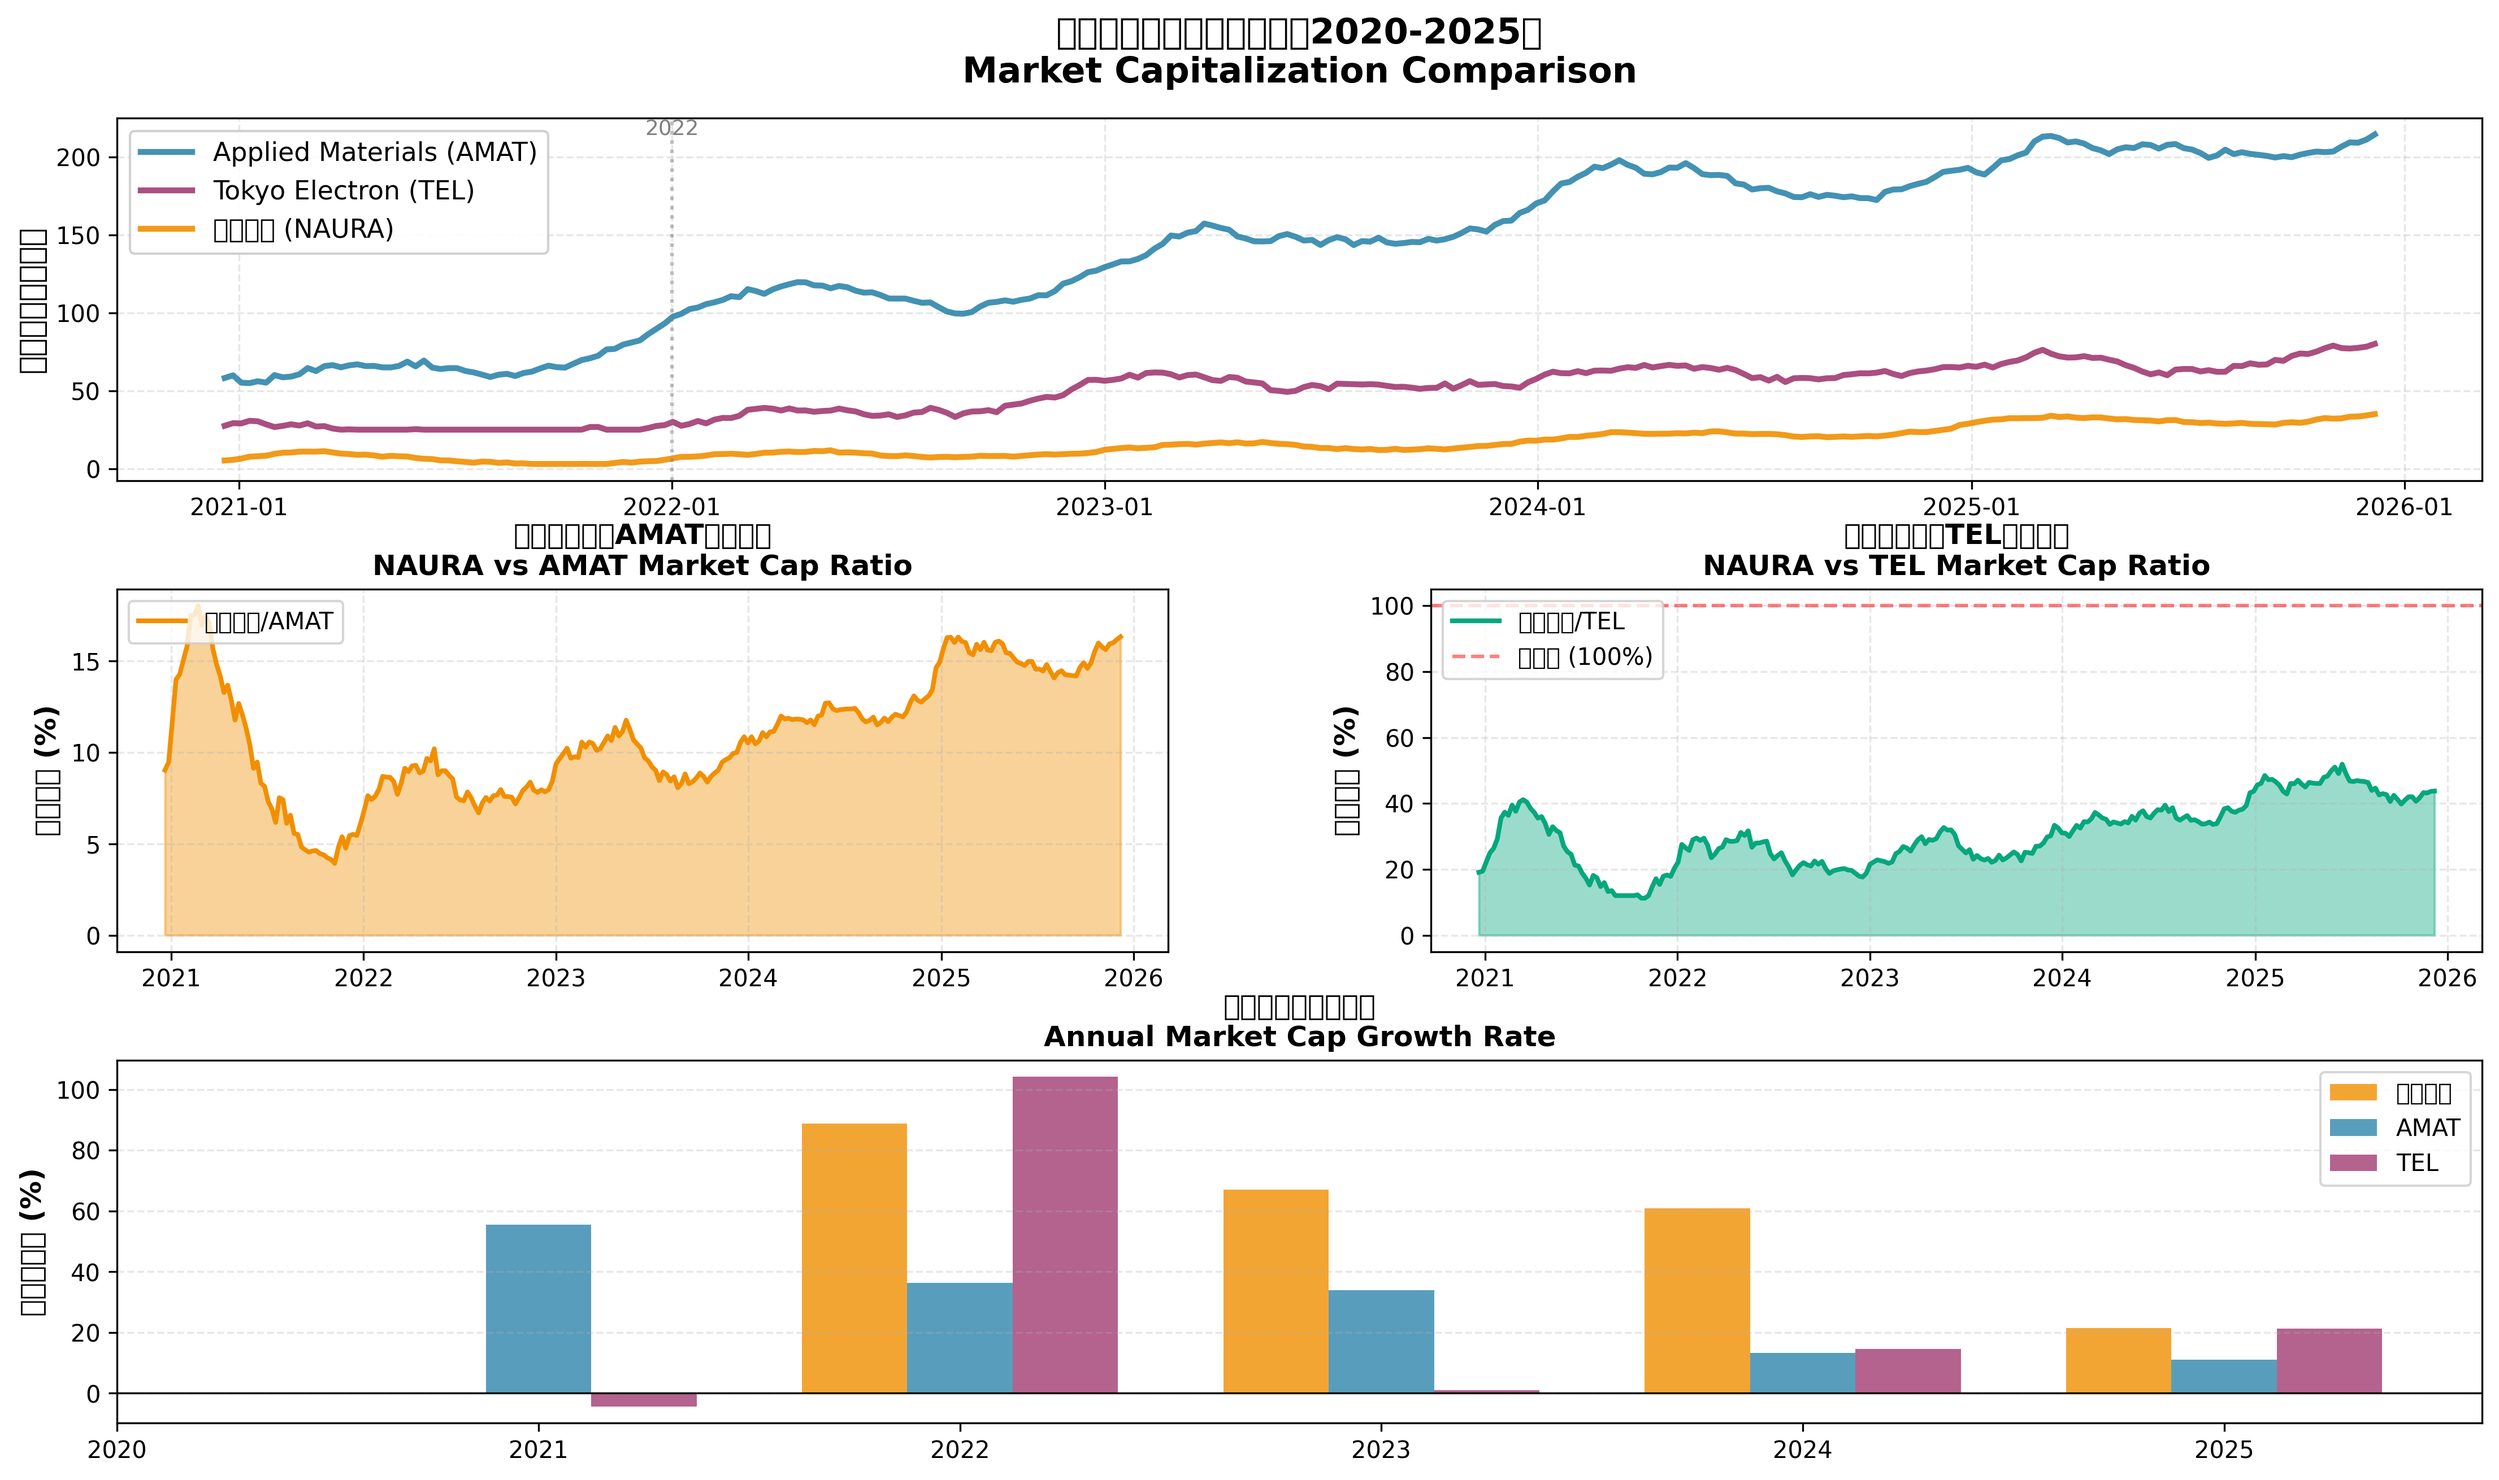
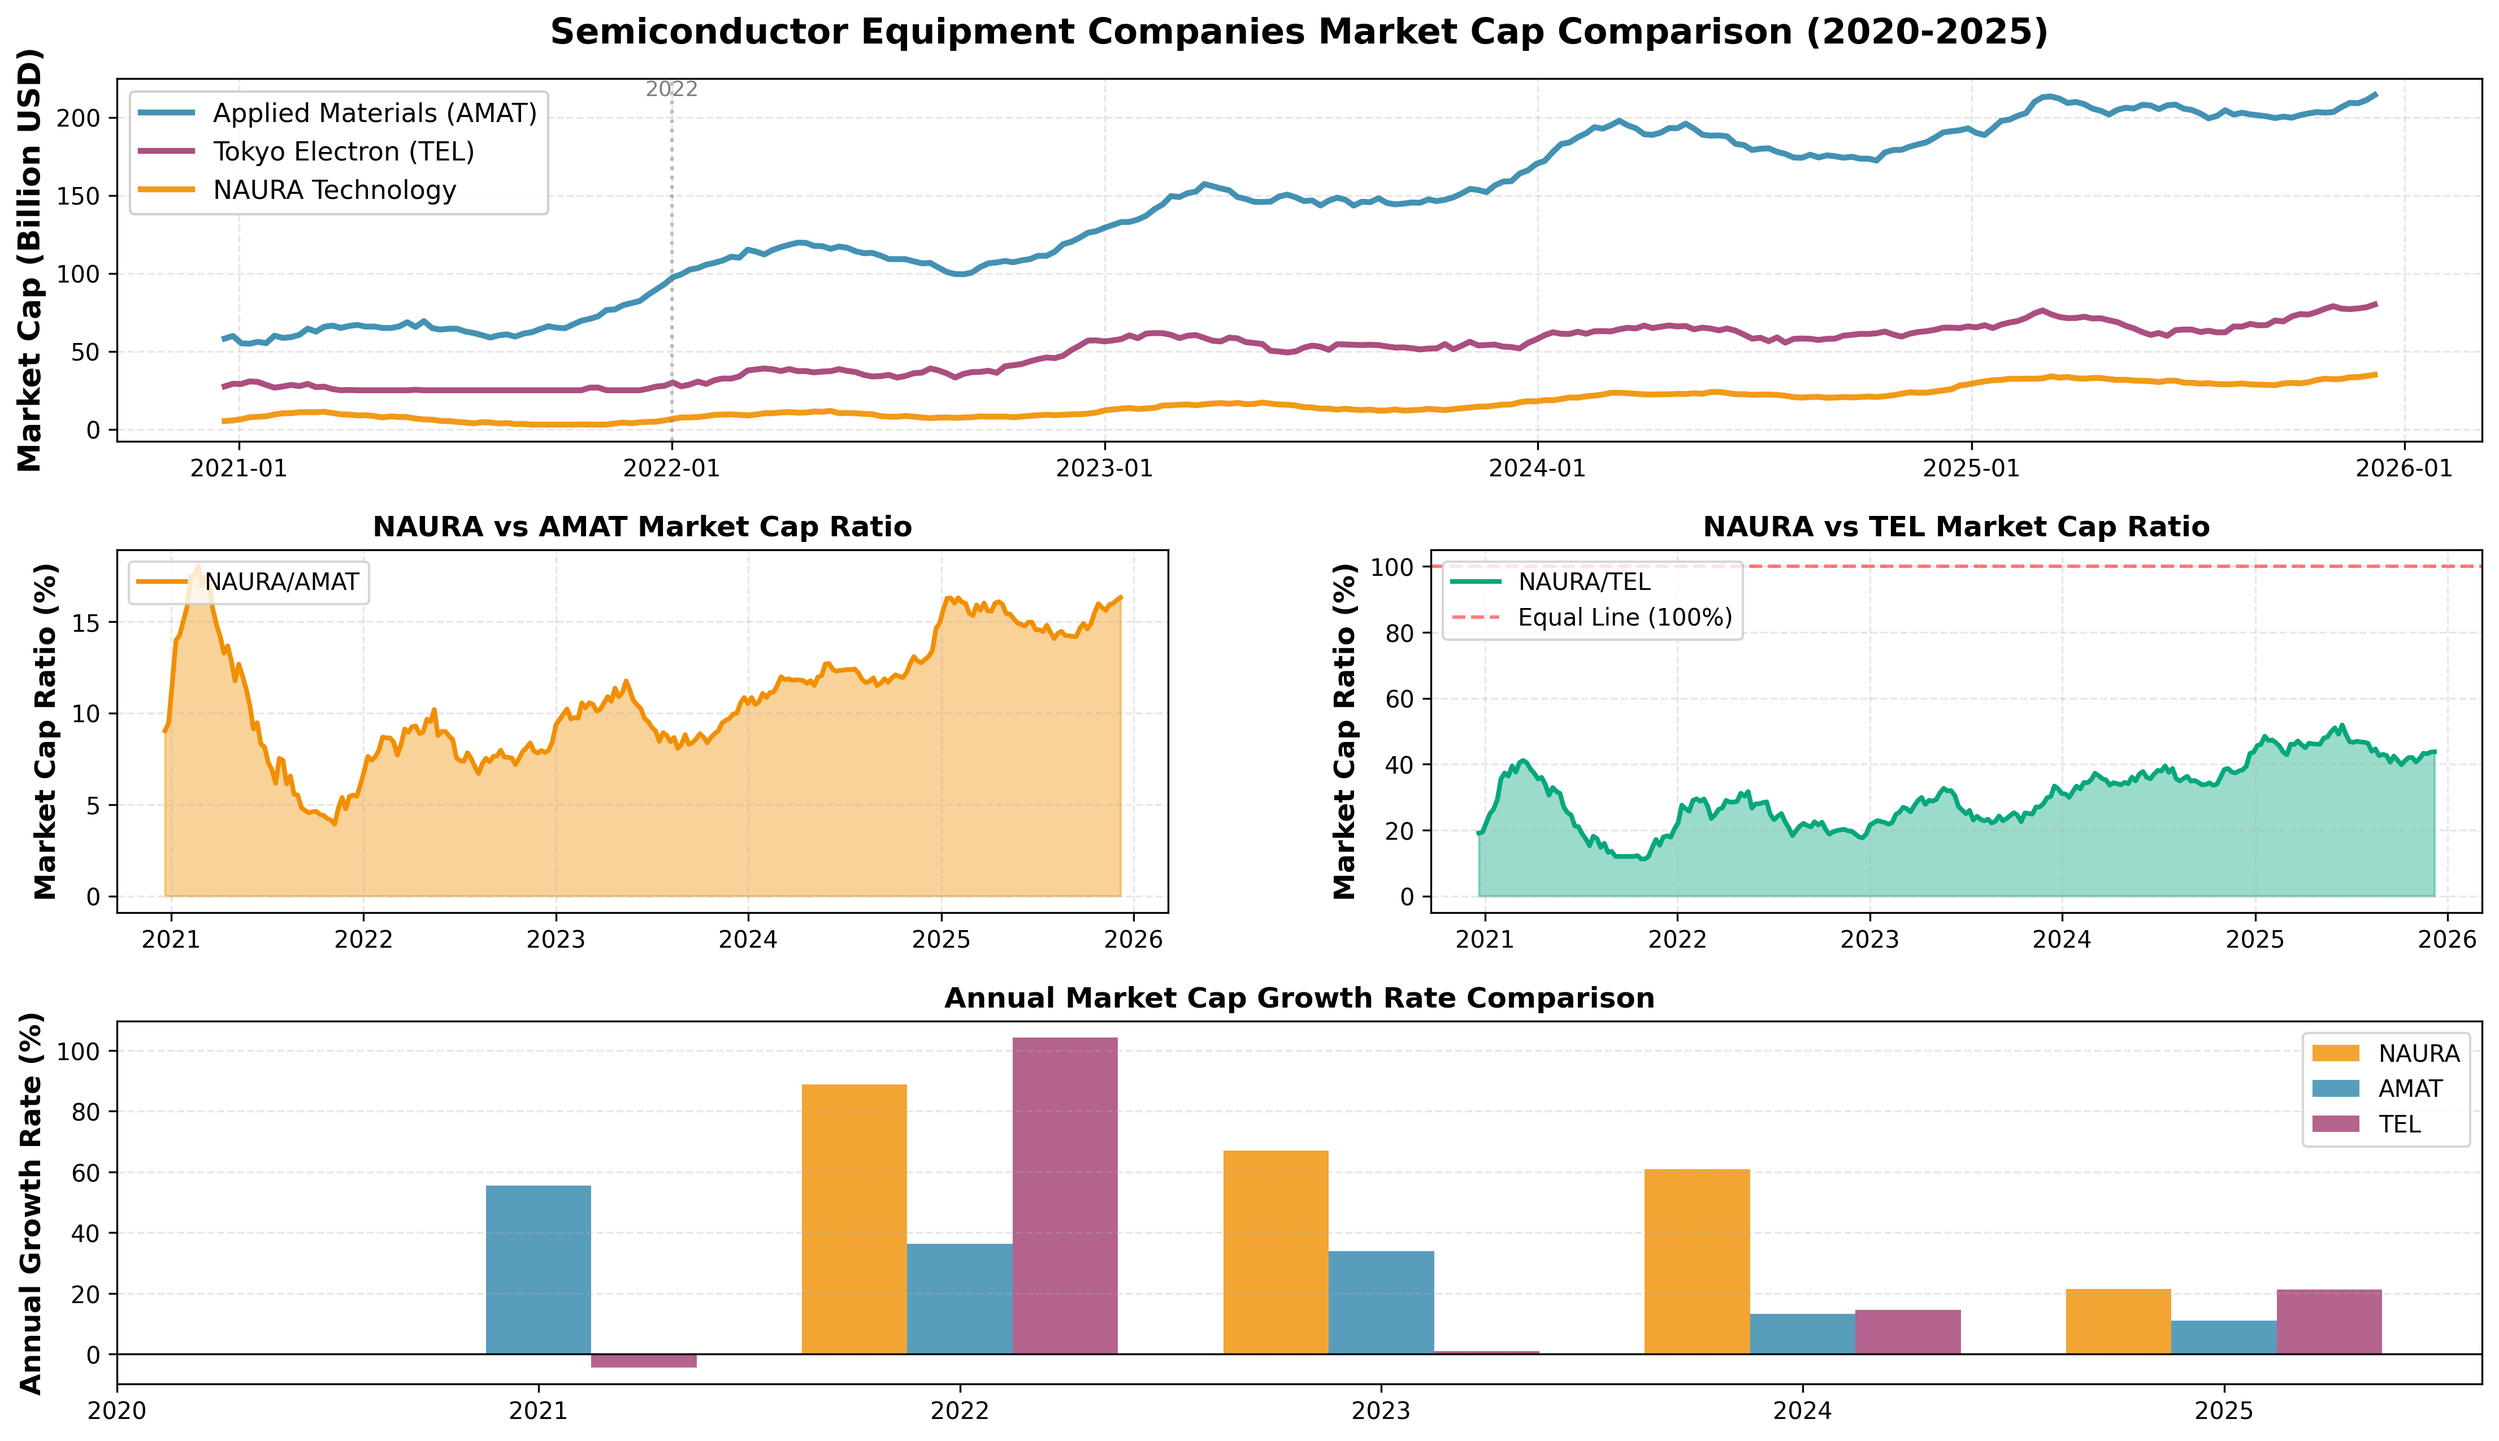
修复PNG图表中文显示问题
修改内容:
- 将所有中文标签改为英文，解决字体显示警告
- 图表标题: Semiconductor Equipment Companies Market Cap Comparison
- 坐标轴标签全部使用英文
- 公司名称: NAURA Technology, AMAT, TEL
- 移除中文字体配置，使用默认sans-serif字体

修复前问题:
- 大量字符无法在DejaVu Sans字体中显示
- 图表中中文显示为方框或空白

修复后效果:
- 所有标签正常显示
- 无任何字体警告
- 跨平台兼容性更好

diff --git a/02_semiconductor_market_cap_comparison/5year_comparison.py b/02_semiconductor_market_cap_comparison/5year_comparison.py
@@ -11,8 +11,8 @@ import matplotlib.pyplot as plt
 from datetime import datetime, timedelta
 import matplotlib.dates as mdates
 
-# 设置中文字体
-plt.rcParams['font.sans-serif'] = ['SimHei', 'DejaVu Sans', 'Arial Unicode MS']
+# 使用默认字体，避免中文显示问题
+plt.rcParams['font.family'] = 'sans-serif'
 plt.rcParams['axes.unicode_minus'] = False
 
 def generate_5year_data():
@@ -86,11 +86,11 @@ def plot_5year_comparison(df):
              linewidth=2.5, color='#2E86AB', alpha=0.9)
     ax1.plot(df.index, df['tel_cap'], label='Tokyo Electron (TEL)',
              linewidth=2.5, color='#A23B72', alpha=0.9)
-    ax1.plot(df.index, df['naura_cap'], label='北方华创 (NAURA)',
+    ax1.plot(df.index, df['naura_cap'], label='NAURA Technology',
              linewidth=2.5, color='#F18F01', alpha=0.9)
 
-    ax1.set_ylabel('市值（十亿美元）', fontsize=13, fontweight='bold')
-    ax1.set_title('半导体设备公司市值对比（2020-2025）\nMarket Capitalization Comparison',
+    ax1.set_ylabel('Market Cap (Billion USD)', fontsize=13, fontweight='bold')
+    ax1.set_title('Semiconductor Equipment Companies Market Cap Comparison (2020-2025)',
                   fontsize=15, fontweight='bold', pad=15)
     ax1.legend(loc='upper left', fontsize=11, framealpha=0.9)
     ax1.grid(True, alpha=0.3, linestyle='--')
@@ -108,10 +108,10 @@ def plot_5year_comparison(df):
     ax2.fill_between(df.index, 0, df['ratio_naura_amat']*100,
                      alpha=0.4, color='#F18F01')
     ax2.plot(df.index, df['ratio_naura_amat']*100,
-             linewidth=2, color='#F18F01', label='北方华创/AMAT')
+             linewidth=2, color='#F18F01', label='NAURA/AMAT')
 
-    ax2.set_ylabel('市值占比 (%)', fontsize=12, fontweight='bold')
-    ax2.set_title('北方华创相对AMAT市值占比\nNAURA vs AMAT Market Cap Ratio',
+    ax2.set_ylabel('Market Cap Ratio (%)', fontsize=12, fontweight='bold')
+    ax2.set_title('NAURA vs AMAT Market Cap Ratio',
                   fontsize=12, fontweight='bold')
     ax2.legend(loc='upper left', fontsize=10)
     ax2.grid(True, alpha=0.3, linestyle='--')
@@ -123,12 +123,12 @@ def plot_5year_comparison(df):
     ax3.fill_between(df.index, 0, df['ratio_naura_tel']*100,
                      alpha=0.4, color='#06A77D')
     ax3.plot(df.index, df['ratio_naura_tel']*100,
-             linewidth=2, color='#06A77D', label='北方华创/TEL')
+             linewidth=2, color='#06A77D', label='NAURA/TEL')
     ax3.axhline(y=100, color='red', linestyle='--', alpha=0.5, linewidth=1.5,
-                label='相等线 (100%)')
+                label='Equal Line (100%)')
 
-    ax3.set_ylabel('市值占比 (%)', fontsize=12, fontweight='bold')
-    ax3.set_title('北方华创相对TEL市值占比\nNAURA vs TEL Market Cap Ratio',
+    ax3.set_ylabel('Market Cap Ratio (%)', fontsize=12, fontweight='bold')
+    ax3.set_title('NAURA vs TEL Market Cap Ratio',
                   fontsize=12, fontweight='bold')
     ax3.legend(loc='upper left', fontsize=10)
     ax3.grid(True, alpha=0.3, linestyle='--')
@@ -146,12 +146,12 @@ def plot_5year_comparison(df):
     x = np.arange(len(growth_naura))
     width = 0.25
 
-    ax4.bar(x - width, growth_naura, width, label='北方华创', color='#F18F01', alpha=0.8)
+    ax4.bar(x - width, growth_naura, width, label='NAURA', color='#F18F01', alpha=0.8)
     ax4.bar(x, growth_amat, width, label='AMAT', color='#2E86AB', alpha=0.8)
     ax4.bar(x + width, growth_tel, width, label='TEL', color='#A23B72', alpha=0.8)
 
-    ax4.set_ylabel('年度增长率 (%)', fontsize=12, fontweight='bold')
-    ax4.set_title('年度市值增长率对比\nAnnual Market Cap Growth Rate',
+    ax4.set_ylabel('Annual Growth Rate (%)', fontsize=12, fontweight='bold')
+    ax4.set_title('Annual Market Cap Growth Rate Comparison',
                   fontsize=12, fontweight='bold')
     ax4.set_xticks(x)
     ax4.set_xticklabels([d.year for d in growth_naura.index])
